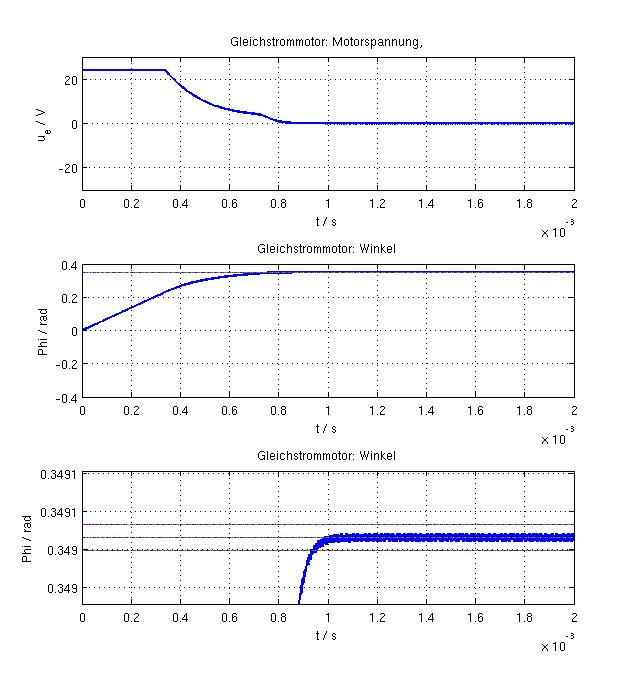
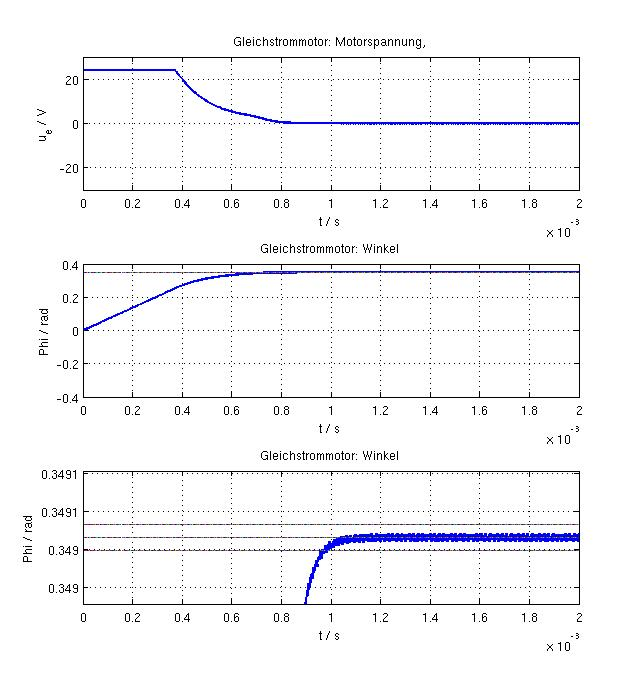
modified sSpiegelPadStromNeu

diff --git a/msSpiegel_Pad_Neue_Werte_Strom.m b/msSpiegel_Pad_Neue_Werte_Strom.m
@@ -3,7 +3,7 @@
 %  Vorgang:   Regelung eines Gleichstrommotors zur Spiegelverstellung
 %  Verfahren: Simulink, mithilfe einer P-Adaption
 %
-%  Unterprogramme:  sSpiegelPadStrom.slx
+%  Unterprogramme:  sSpiegelPadStromNeu.slx
 %
 %
 % ########################################################
@@ -36,7 +36,7 @@ close all
   TA=LA/RA;           % Zeitkonstante T1
   
   J=93.3e-11;         % kg m^2 Trägheitsmoment des Spiegels
-  r=6e-5;             % Nm*s
+  r=6e-5;             % Nm*s Reibung
   
   KMPHI=35e-3;        % Vs
   
@@ -70,7 +70,7 @@ opts=simset('solver','ode45',...
     'Refine',1,...
     'MaxStep',.00001);
 
-[t,x,y]=sim('sSpiegelPadStrom',[t0 te],opts);
+[t,x,y]=sim('sSpiegelPadStromNeu',[t0 te],opts);
 
 
 % Plots
@@ -98,14 +98,14 @@ grid on
 xlabel('t / s')
 ylabel('Phi / rad')
 title('Gleichstrommotor: Winkel')
-
-figure(2)
-plot (t,y(:,4),'linewidth',2);
-axis([0 te iu io])
-grid on
-xlabel('t / s')
-ylabel('i_A / A')
-title('Gleichstrommotor: Motorstrom')
+% 
+% figure(2)
+% plot (t,y(:,4),'linewidth',2);
+% axis([0 te iu io])
+% grid on
+% xlabel('t / s')
+% ylabel('i_A / A')
+% title('Gleichstrommotor: Motorstrom')
 
 
 % Plot der variablen Schrittweite
